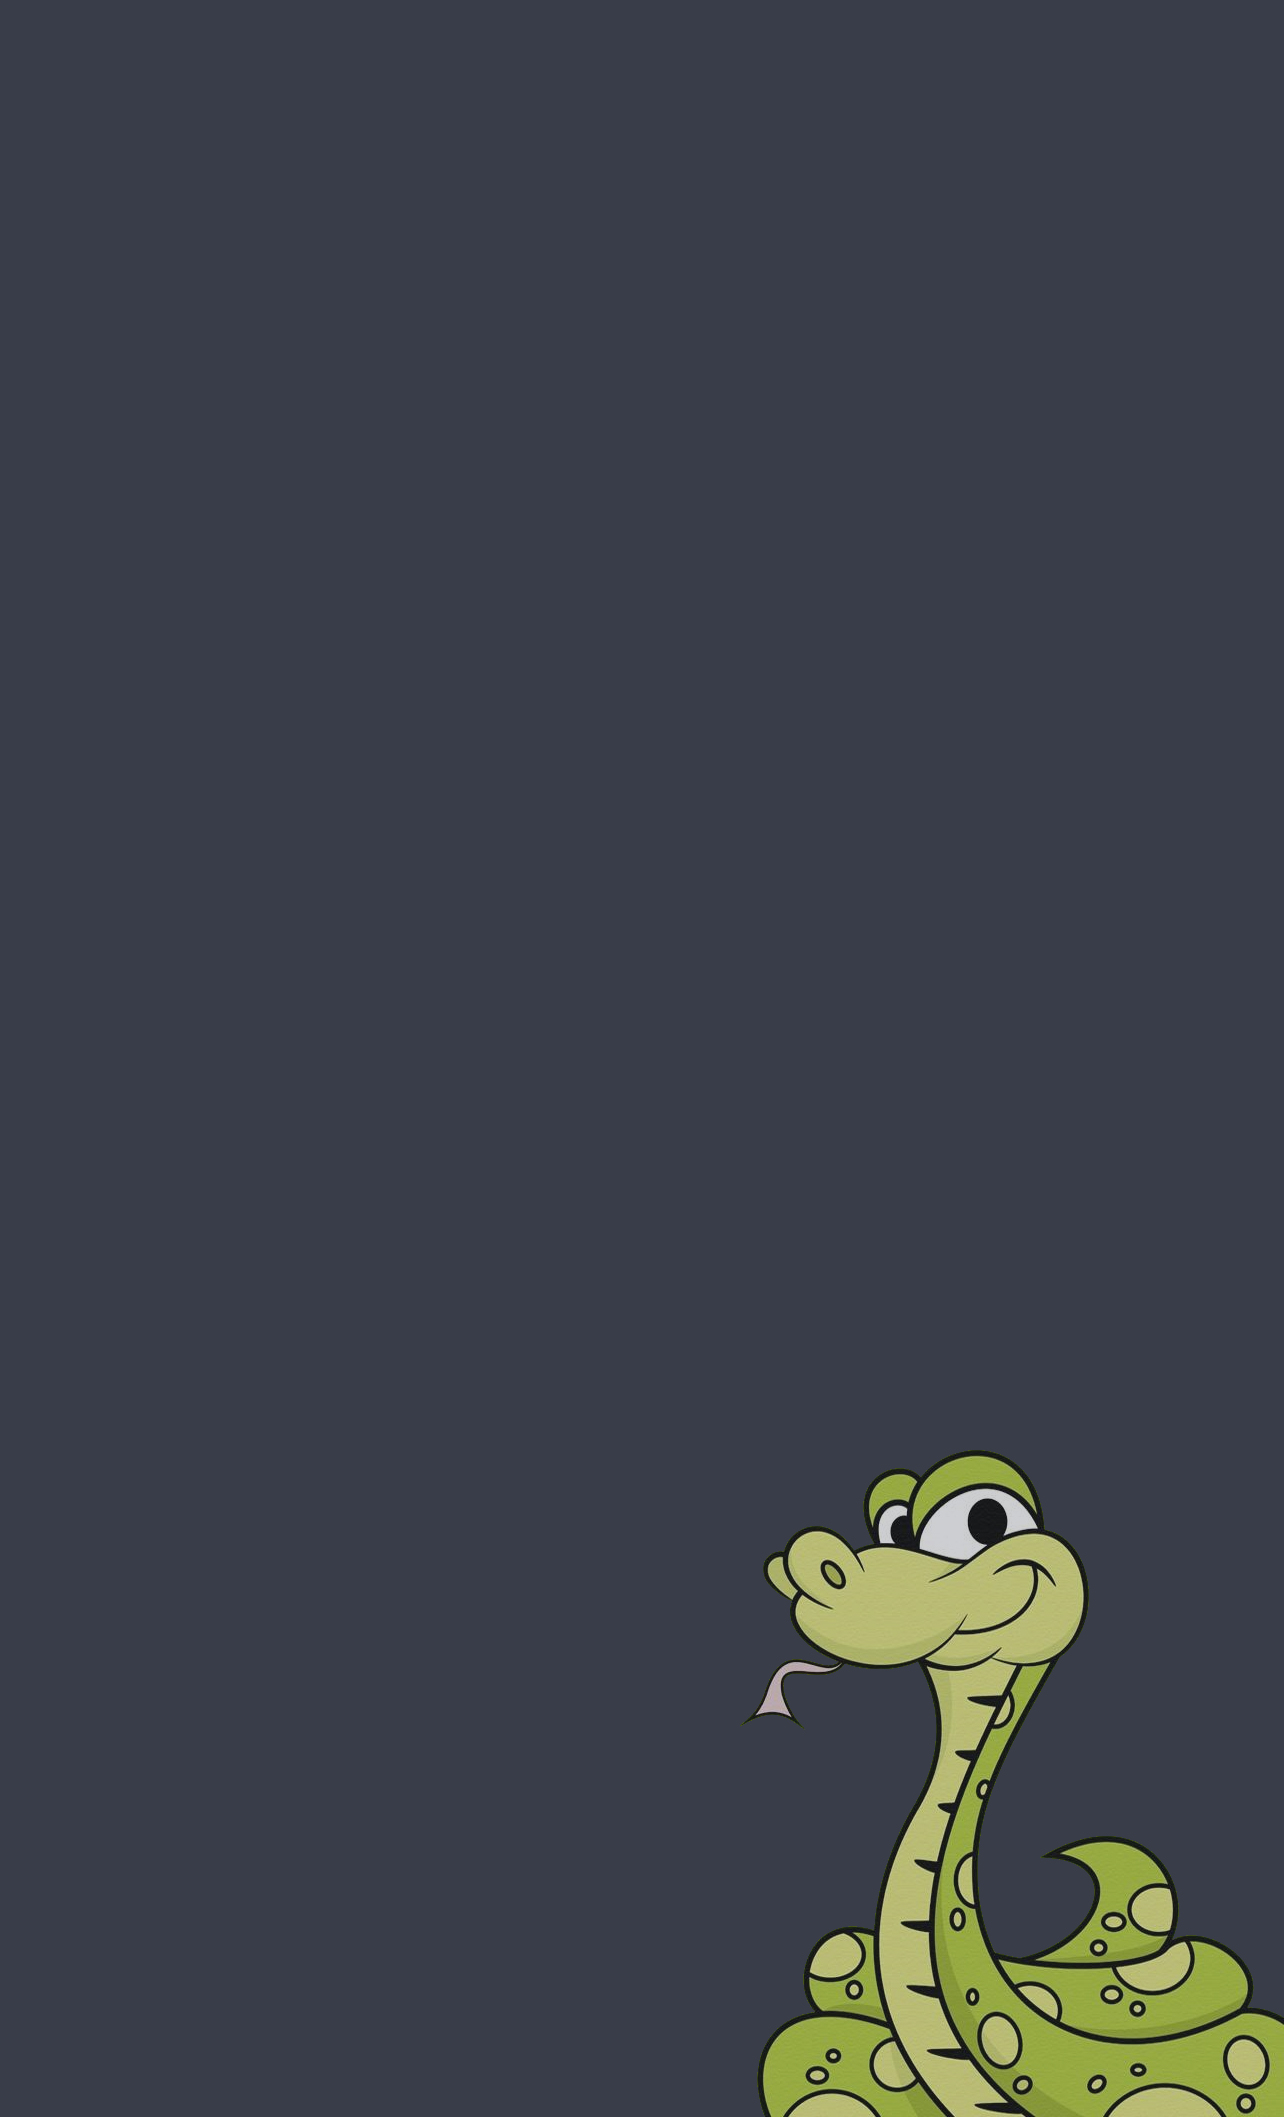
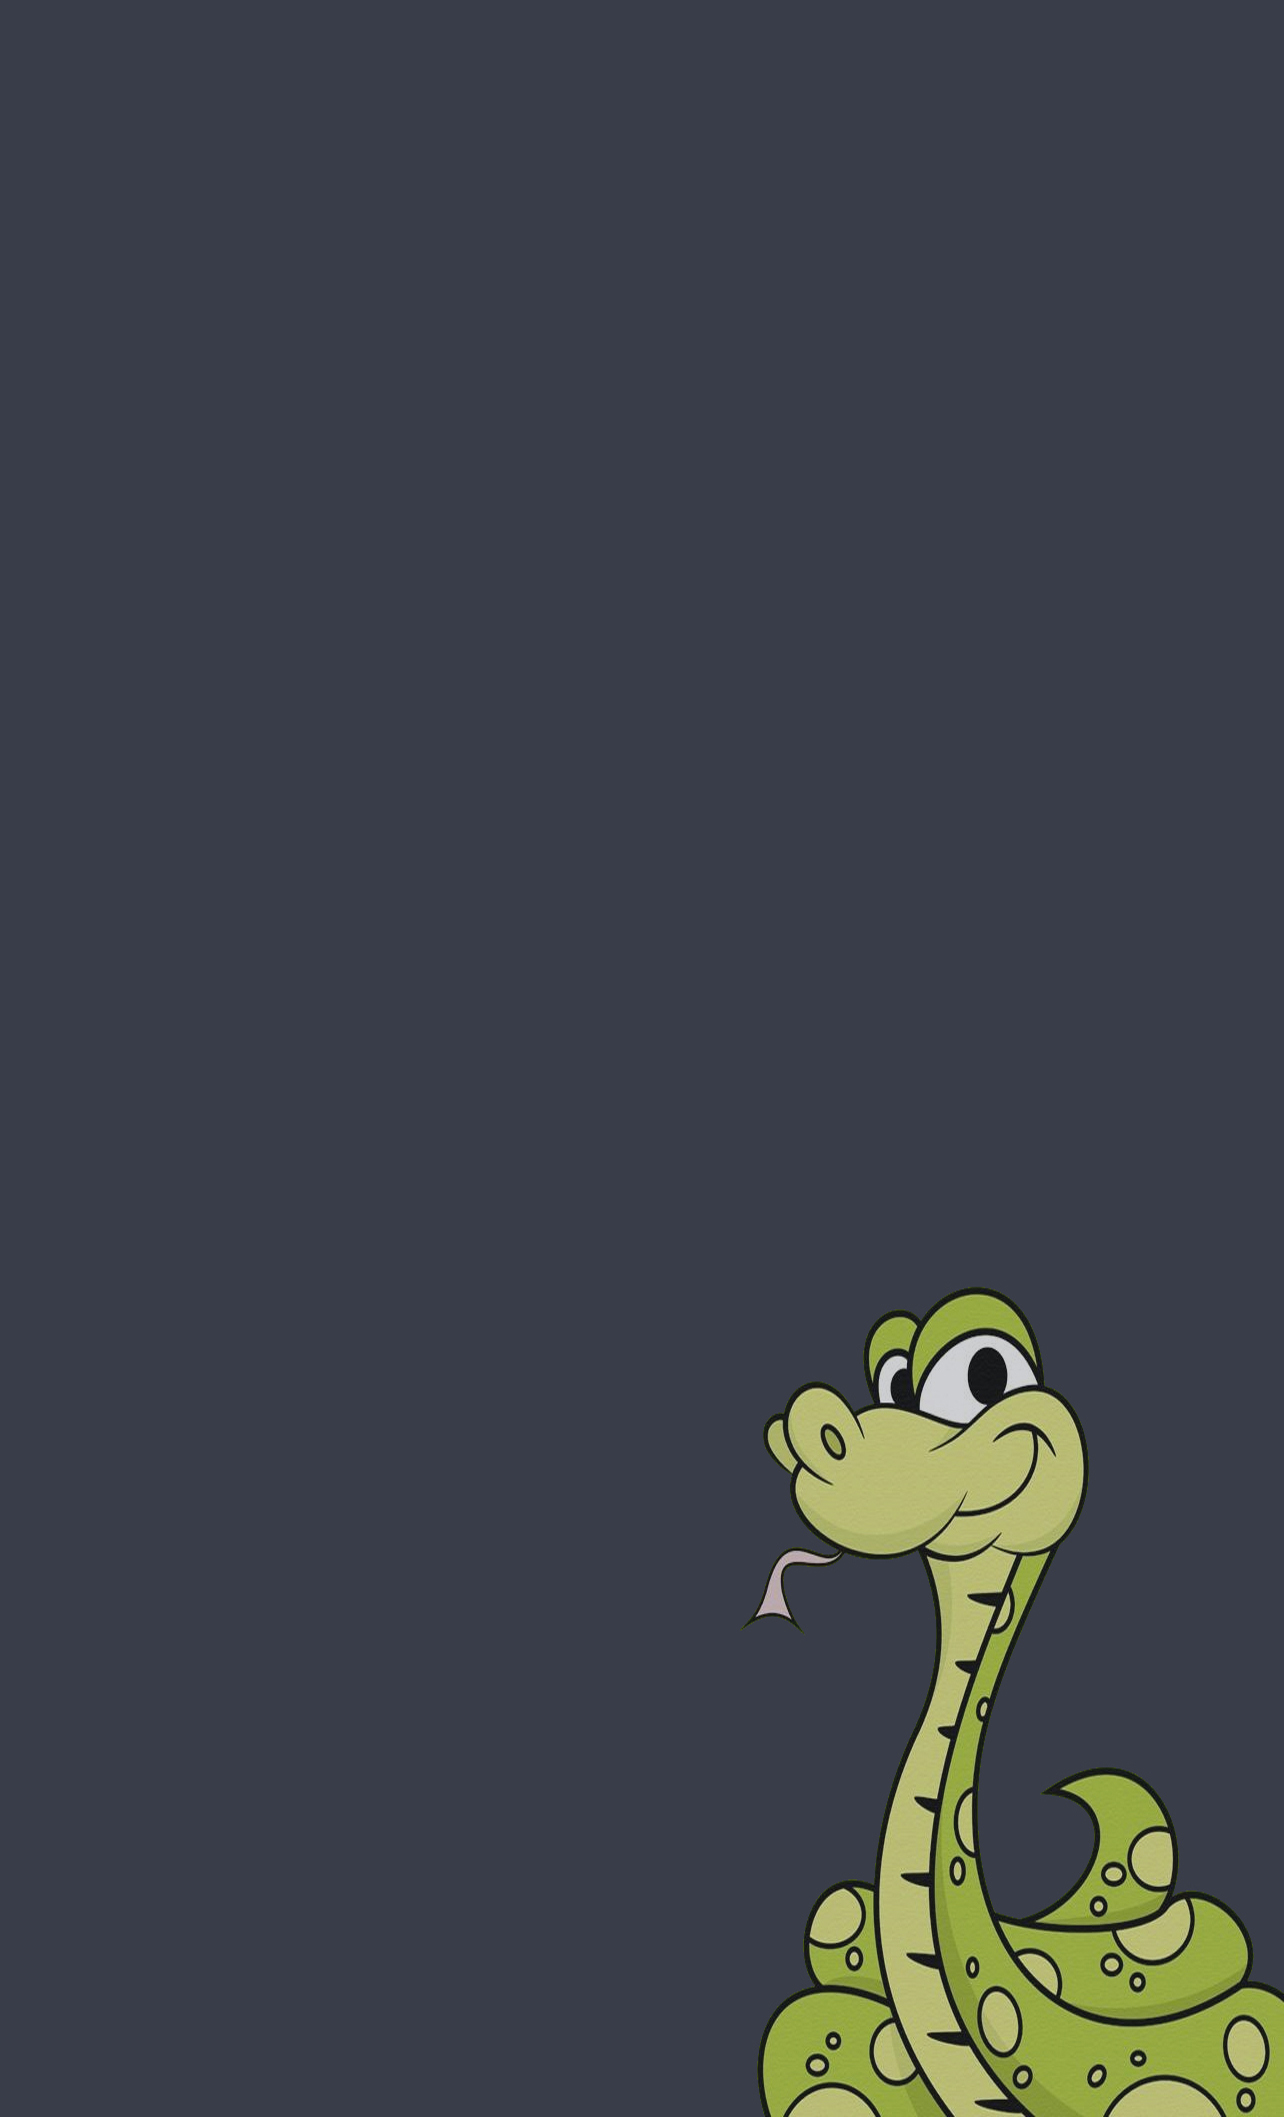
snake size

Changed region(s): [[0.5919, 0.5923, 1.0, 1.0]]

diff --git a/style.css b/style.css
@@ -38,7 +38,7 @@ body {
   background-image: url(./assets/bg_snake.jpg);
   background-repeat: no-repeat;
   background-size: cover;
-  height: 80%;
+  height: 90%;
   padding: 20px;
 }
 
